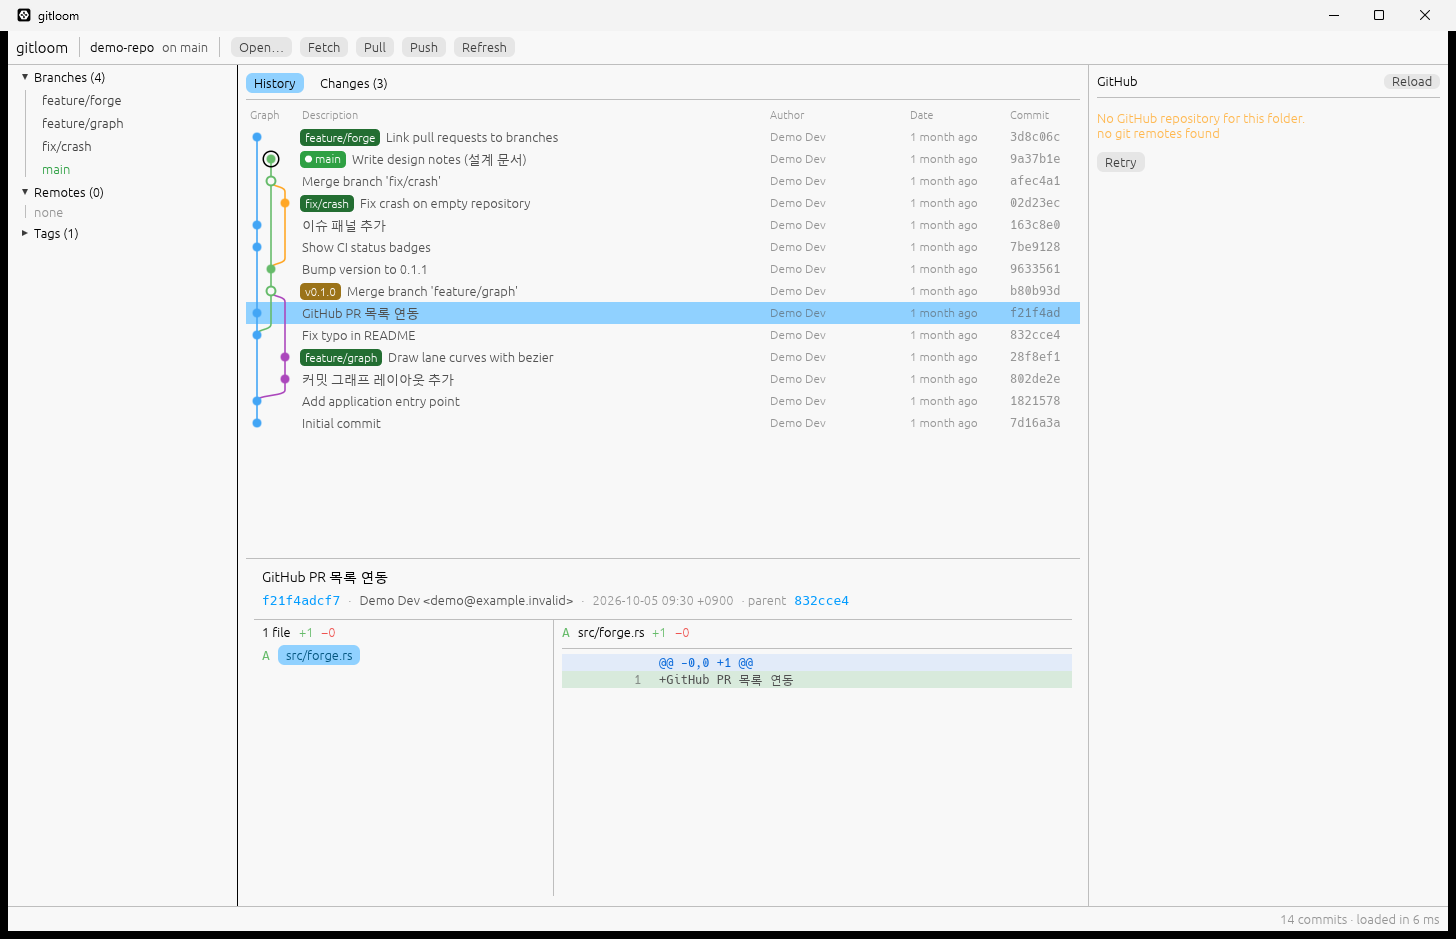
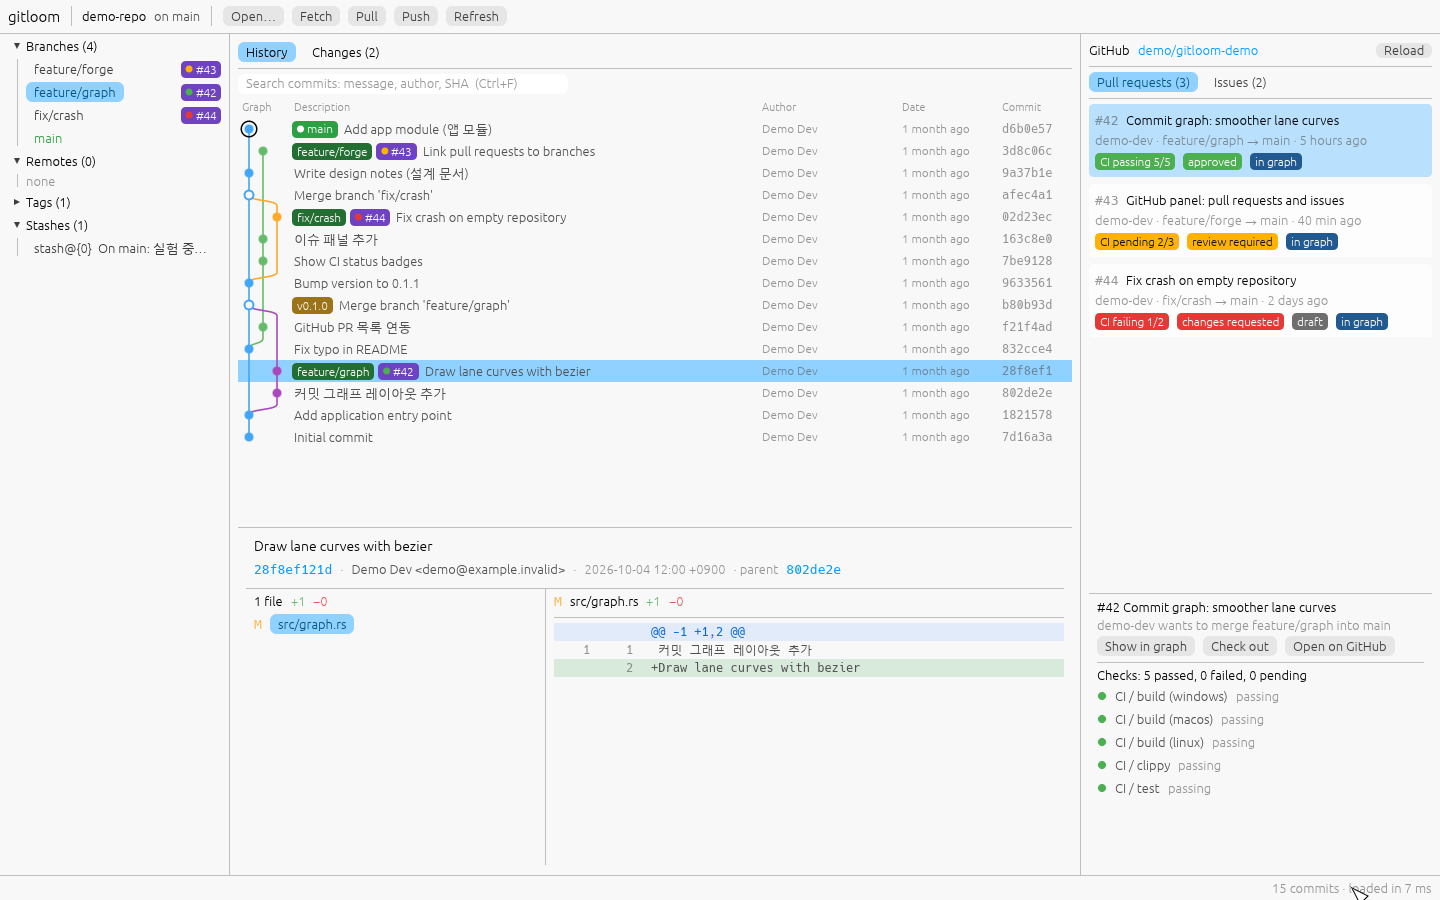
Update README, roadmap and screenshots for v0.2
Screenshots are rendered from a demo repository with example PR data.

Changed region(s): [[0.0, 0.0, 1.0, 1.0], [0.8125, 0.8711, 0.8438, 0.9022], [0.0938, 0.2489, 0.125, 0.28]]

diff --git a/docs/research.md b/docs/research.md
@@ -205,17 +205,21 @@ VS Code(내장 Git + GitLens + GitHub Pull Requests and Issues), JetBrains IDE, 
 
 ## 6. 범위와 로드맵
 
-### v0.1 — 프로토타입 (현재)
+### v0.1 — 프로토타입 ✅
 - 커밋 그래프(브랜치·태그·HEAD 라벨, 가상 스크롤, ↑/↓ 탐색)
 - 커밋 상세: 메시지, 작성자, 부모, 변경 파일, diff
 - 변경사항: 스테이징/언스테이징(파일 단위), 커밋(`git` CLI 사용 → 훅 실행)
 - PR·이슈 패널(`gh` 사용): CI 상태, 리뷰 상태, 브라우저 열기
 - **그래프 ↔ PR 연결**: 브랜치 라벨에 PR 배지, PR에서 그래프로 이동, `gh pr checkout`
-- fetch, 새로고침, 창에 포커스가 돌아오면 상태 자동 갱신
+- 브랜치 생성·전환, fetch/pull/push, 창에 포커스가 돌아오면 상태 자동 갱신
 
-### v0.2
-- 헝크/줄 단위 스테이징, 브랜치 생성·전환·삭제, push/pull
-- stash 목록, 커밋 검색·필터
+### v0.2 ✅ (현재)
+- 헝크/줄 단위 스테이징·언스테이징·되돌리기(패치를 만들어 `git apply`로 적용)
+- 파일 되돌리기·삭제, 되돌릴 수 없는 작업은 확인 창
+- stash: 만들기(메시지, untracked 포함), 목록·내용 보기, apply·pop·drop
+- 커밋 검색(메시지·작성자·이메일·SHA), 일치 강조와 결과 간 이동
+- 로컬·원격 브랜치 삭제
+- egui_kittest로 실제 UI를 조작하는 UI 테스트
 
 ### v0.3
 - 드래그 앤 드롭 인터랙티브 rebase, 3-way 충돌 해결
